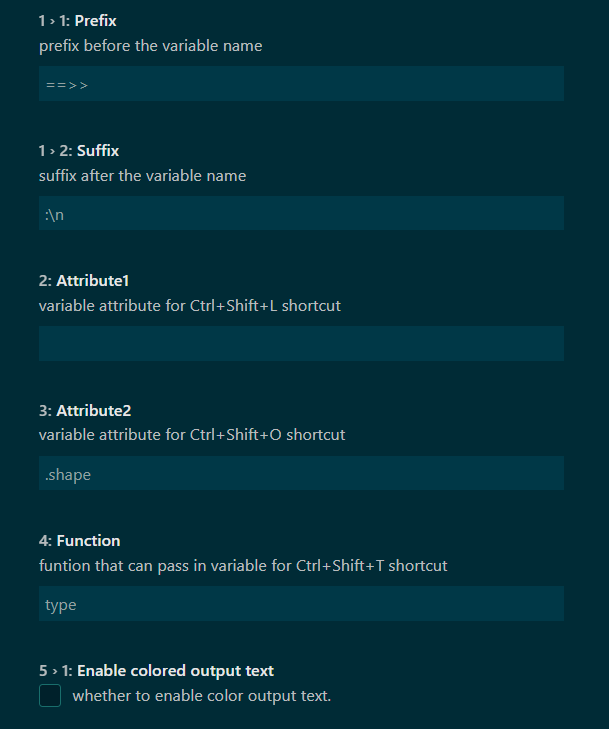
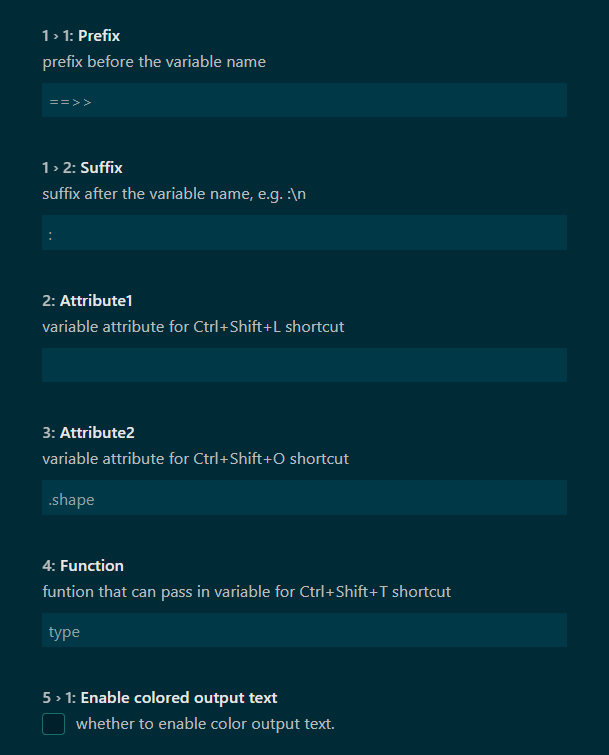
update for 0.1.8

diff --git a/src/extension.ts b/src/extension.ts
@@ -69,14 +69,14 @@ async function handleInsertion(prefix:string, suffix:string, attr:string, mode:n
         let currentline = selection.start.line;
         let currentlineText = editor.document.lineAt(currentline).text;
 
-        // find the variable name in current line
-        let regexList = currentlineText.match(/\s*(.*)\s*=\s*/)  || currentlineText.match(/\s*(\w+)\s*\+=\s*/);
+        // find the variable name in current line. To avoid any possible characters inside print(), so ignore this situation
+        let regexList = currentlineText.includes("print") ? false : currentlineText.match(/\s*(.*)\s*=\s*/)  || currentlineText.match(/\s*(.*)\s*\+=\s*/);
         
         if (regexList) {
             console.log("regexList[0]:" + regexList[0]);
             console.log("regexList[1]:" + regexList[1]);
-            if (regexList[1].includes(',')){
-                // there are multiple unpakced variables
+            if (regexList[1].includes(',') && /^[A-Za-z0-9_,\.\s]+$/.test(regexList[1])) {  // the regex is to avoid regard sth like 'm[1,2]' as unpacked variable
+                // there are multiple unpakced variables1,2
                 let v_list = regexList[1].split(',');
                 for (var variableName of v_list){
                     await vscode.commands.executeCommand('editor.action.insertLineAfter')
@@ -110,7 +110,7 @@ async function handleInsertion(prefix:string, suffix:string, attr:string, mode:n
     } else {
         // With selection
         const selected_text = editor.document.getText(selection).trim();
-        if (selected_text.includes(',')){
+        if (selected_text.includes(',') && /^[A-Za-z0-9_,\.\s]+$/.test(selected_text)){
             // there are multiple unpakced variables
             let v_list = selected_text.split(',');
             for (var variableName of v_list){
@@ -331,9 +331,9 @@ export function activate(context: vscode.ExtensionContext) {
         let codeToInsert = "";
         const v:string = "";
         if (Boolean(colortext)) {
-            codeToInsert = getInsertCode(2, v, v, String(delimierLength), String(delimierSymbol), String(delimierColor));
+            codeToInsert = getInsertCode(2, v, String(delimierLength), v, String(delimierSymbol), String(delimierColor));
         } else {
-            codeToInsert = getInsertCode(2, v, v, String(delimierLength), String(delimierSymbol));
+            codeToInsert = getInsertCode(2, v, String(delimierLength), v, String(delimierSymbol));
         }
         editor.edit((editBuilder) => editBuilder.insert(selection.start, codeToInsert));
     });

diff --git a/README.md b/README.md
@@ -3,16 +3,16 @@
 ## Intro 
 This extension is inspired by "[Python Quick Print](https://github.com/AhadCove/Python-Quick-Print)". "Python Quick Print" can quickly print out variables on the console by using shortcut `Ctrl+Shift+L`, while "Quick Python Print" enhances some features:
 * You can put the cursor at target line, the extension will automatically recognize the variable in the line.
+* If did not recognize any variable in current line, it will just insert simply `print()` and move the cursor inside the bracket.
 * Press `Ctrl+Shift+O` to print out tensor shape by default, e.g. `print("==>> a.shape: ", a.shape)`.
 * Press `Ctrl+Shift+T` to print out variable type by default, e.g. `print("==>> type(a): ", type(a))`.
 * Press `Ctrl+Shift+;` to insert `print("".center(50, "-"))` used for printing delimiter line.
-* Move the cursor inside the bracket if insert simply `print()`.
 * Press `Ctrl+Shift+/` to comment out or uncomment all print statement inside the selection or in the file.
 * Press `Ctrl+Shift+R` to delete all print statements inside the selection or in the file.
 * Allow user to define customized prefix and suffix of print content flexibly in extension settings.
 * Able to output colored text in terminal by using python built-in package: `termcolor`.
 
-If you find bug or have feature request, you can check out the ChangeLog to see if this bug or feature had been fixed or added in latest version, if not, welcome to post in this extension's [github repo](https://github.com/wwdok/Quick-Python-Print).
+If you find bug or have feature request, you can check out the ChangeLog to see if this bug or feature had been fixed or added in latest version, if not, please issue it in this extension's [github repo](https://github.com/wwdok/Quick-Python-Print).
 
 ## Motivation
 
@@ -25,9 +25,9 @@ This extension is available in the Visual Studio Code Extension Marketplace, you
 
 ## How to use
 
-Introduction video: [Bilibili](https://www.bilibili.com/video/BV1hY411V7bi) | [Youtube](https://www.youtube.com/watch?v=w5cd_8lzylA) (When I made this video, it was version 0.1.1, and there have been many changes in the current version)
+Introduction video: [Bilibili](https://www.bilibili.com/video/BV1hY411V7bi) | [Youtube](https://www.youtube.com/watch?v=w5cd_8lzylA) (When I made this video, it was version 0.1.1, and there have been many changes in the current version).
 
-This extension only activates within `.py` and `.ipynb` files
+This extension only activates within `.py` and `.ipynb` files.
 
 ### Keyboard Shortcut
 For Mac user, the `Ctrl` should be `Cmd`.
@@ -60,17 +60,17 @@ If you didn't select variable or the extension can't recognize variable, it will
 
 **Ctrl+Shift+/**
 
-Comment out or uncomment the print statement in the python file or in the selected scope:
+Comment out or uncomment the print statement in the selected scope or in the python file:
 
 ![](images/Ctl+Shift+forwardslash.gif)
 
-**Ctrl+Shift+up**
+**Ctrl+Shift+Up**
 
 Comment out all print statement above the cursor in the python file:
 
 ![](images/Ctl+Shift+up.gif)
 
-**Ctrl+Shift+down**
+**Ctrl+Shift+Down**
 
 Comment out all print statement below the cursor in the python file:
 
@@ -78,13 +78,13 @@ Comment out all print statement below the cursor in the python file:
 
 **Ctrl+Shift+;**
 
-Insert a print statement that will print 50 `-` to become a delimiter like `--------------------------------------------------`:
+Insert a print statement that will print 50 `-` to form a delimiter like `--------------------------------------------------`:
 
 ![](images/Ctl+Shift+;.gif)
 
 **Ctrl+Shift+R**
 
-Delete all the print statement(include those commented) in the python file or in the selected scope::
+Delete all the print statement(include those commented) in the python file or in the selected scope:
 
 ![](images/Ctl+Shift+R.gif)
 
@@ -115,7 +115,7 @@ To color the output text in terminal, you need to do these things:
 ![](images/color-text.gif)
 
 ## pypi package
-I also make a pypi package : [printensor](https://github.com/wwdok/print_tensor) to uppack tensors inside list, tuple, dict, generator, then print their tensor shape. After installing and import, you can replace `print(` with `prints(` to intergrate with this extension.
+I also make a pypi package : [printensor](https://github.com/wwdok/print_tensor) to uppack tensors inside list, tuple, dict, generator, then print their tensor shape. After installing and import, you can replace `print(` with `prints(` to intergrate it with this extension.
 
 ## Known issue
 This extension can not handle tensor that cross multiple lines, for example:
@@ -123,7 +123,7 @@ This extension can not handle tensor that cross multiple lines, for example:
 a = torch.tensor([[1.0, 2.0, 3.0], 
                 [4.0, 5.0, 6.0]])
 ```
-You can use `Alt + down` to move down the inserted code.
+You can use `Alt + down` to move down the inserted print statement.
 
 ## Warning
 This uses Python 3 syntax,If you're using Python 2 print isn't a function.You can import this behavior from `__future__`:

diff --git a/CHANGELOG.md b/CHANGELOG.md
@@ -42,3 +42,9 @@
 - Add the ability to recognize variables that were uppacked from tuple,list etc.
 - Change the default operation of `ctrl shift /` without selection from toggle comment to comment out all of those uncomment print statements.
 - Allow user to set customized suffix, like`:\n` by default. 
+
+## [2022/4/5]
+0.1.8
+- Fix a bug of recognizing unpacked variables.
+- Change the default suffix from `:\n` to `: `.
+- Fix a bug when pressing `Ctrl Shift ;`.
